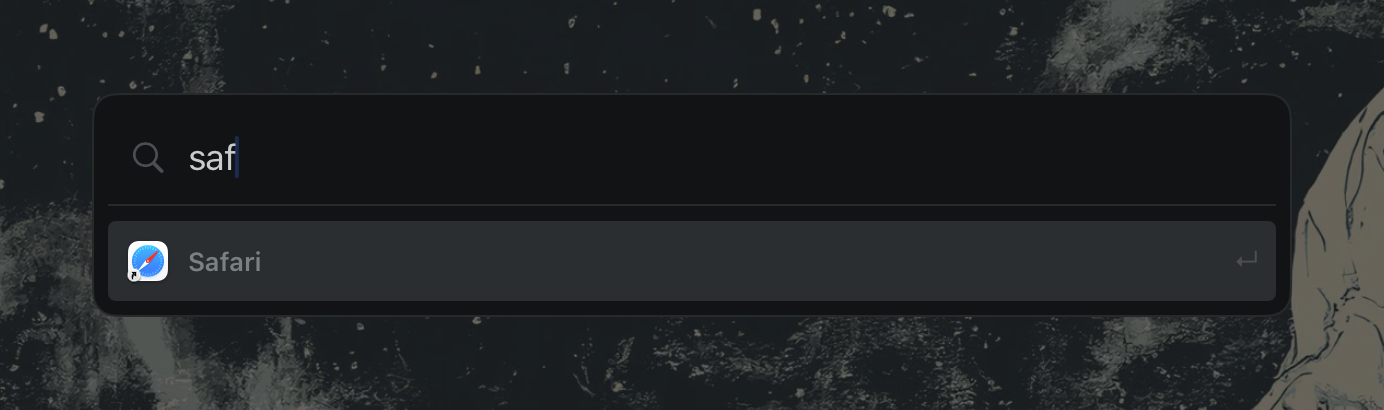
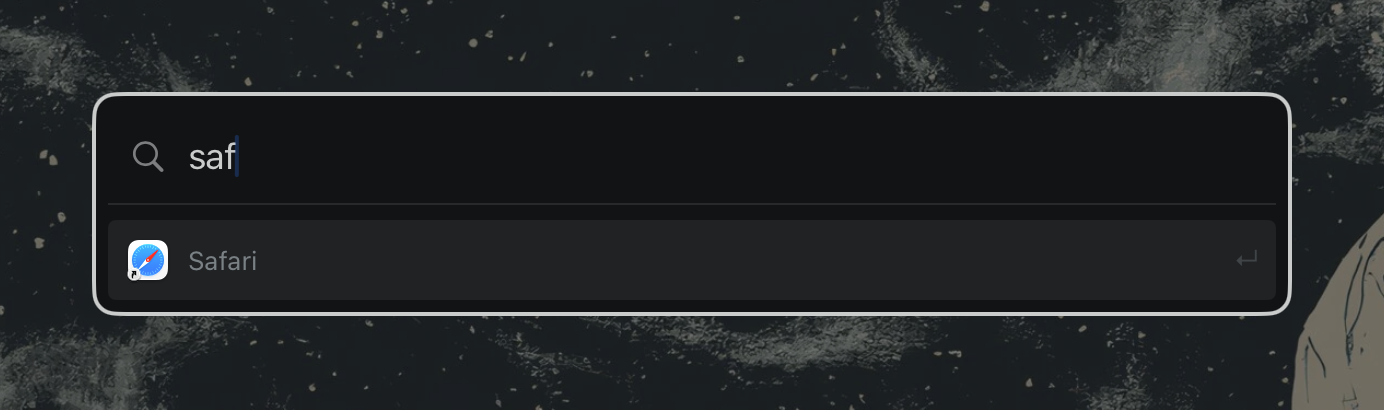
Retake the launcher screenshot in the Omarchy menu colours, and say that pointing at a row selects it

diff --git a/sndrgrdn.launcher/README.md b/sndrgrdn.launcher/README.md
@@ -9,7 +9,7 @@ Opens apps and System Settings panes, and works out calculations, from a picker,
 - **alt+space**, or the `key` setting, opens the picker a quarter of the way down the display under the pointer.
   - Type to fuzzy-match app and settings pane names. "ghd" finds GitHub Desktop, and "keyb" finds the Keyboard pane.
   - Type a calculation, such as `20% of 50`, `5 ft to cm`, `10 usd to eur`, or `3pm london to new york`, and its answer shows above the apps.
-  - Up and down, or tab, move the selection.
+  - Up and down, or tab, move the selection, and so does pointing at a row.
   - Return opens the selected app or pane, and so does a click. On the answer, Return copies it and closes the picker.
   - Escape, or a click outside the picker, closes it.
 
